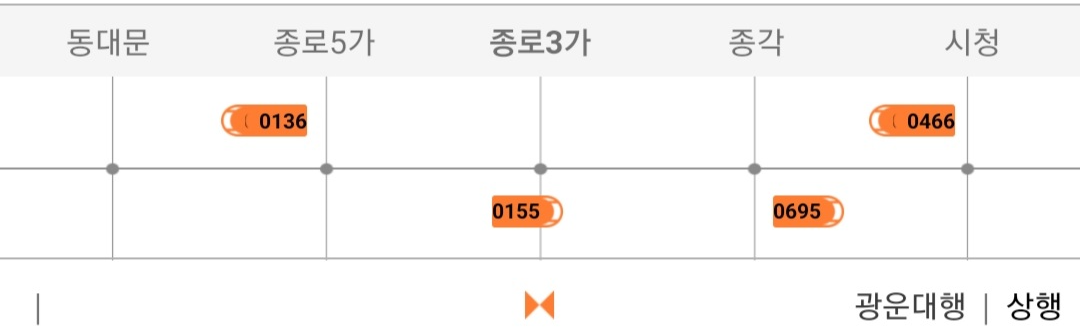
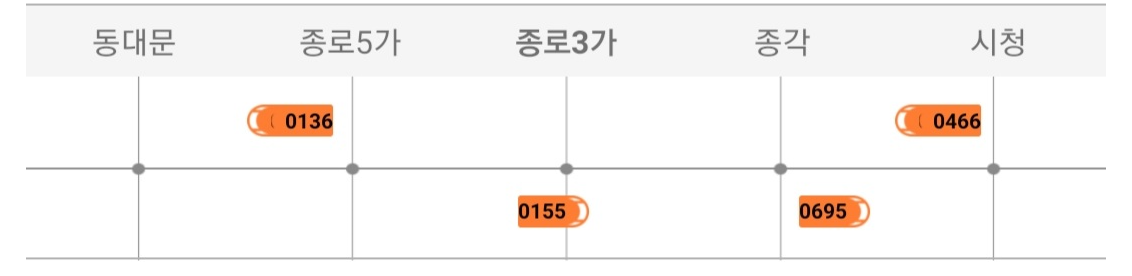
권준성

diff --git a/1호선 근접도.html b/1호선 근접도.html
@@ -138,11 +138,11 @@
             <center><h1 style="padding-top: 20px">현재 위치는 종로 3가역입니다</h1></center>
 
             <div style="text-align : center;">
-                <img id="sub_close" src="img/1호선 위.PNG" width="639" ; height="53"  alt="지하철 근접도" /><br />
-                <a href="1호선 근접도.html" target="_self"><img src=img/1호선1.PNG width="64" ; height="61" > </a>
-                <a href="3호선 근접도.html" target="_self"><img src=img/5호선3.PNG width="63" ; height="60" > </a>
-                <a href="5호선 근접도.html" target="_self"><img src=img/3호선5.PNG width="65" ; height="64" > </a><br />
-                <img id="sub_close" src="img/1호선 아래.PNG" width="654" ; height="200" alt="지하철 근접도" />
+                <img id="sub_close" src="img/1호선 위.png" width="680" ; height="80"  alt="지하철 근접도" /><br />
+                <a href="1호선 근접도.html" target="_self"><img src=img/1호선1.PNG width="63" ; height="60" > </a>
+                <a href="3호선 근접도.html" target="_self"><img src=img/5호선3.PNG width="62" ; height="59" > </a>
+                <a href="5호선 근접도.html" target="_self"><img src=img/3호선5.PNG width="64" ; height="63" > </a><br />
+                <img id="sub_close" src="img/1호선 아래.png" width="680" ; height="161" alt="지하철 근접도" />
             </div>
 
             <div id="footer"> COPYRIGHT (c) 2021 SUBSPACE </div>

diff --git a/3호선 근접도.html b/3호선 근접도.html
@@ -138,11 +138,11 @@
             <center><h1 style="padding-top: 20px">현재 위치는 종로 3가역입니다</h1></center>
 
             <div style="text-align : center;">
-                <img id="sub_close" src="img/3호선 위.PNG" width="639" ; height="53"  alt="지하철 근접도" /><br />
+                <img id="sub_close" src="img/3호선 위.png" width="680" ; height="80"  alt="지하철 근접도" /><br />
                 <a href="1호선 근접도.html" target="_self"><img src=img/3호선1.PNG width="65" ; height="62" > </a>
                 <a href="3호선 근접도.html" target="_self"><img src=img/3호선3.PNG width="63" ; height="60" > </a>
                 <a href="5호선 근접도.html" target="_self"><img src=img/3호선5.PNG width="65" ; height="62" > </a><br />
-                <img id="sub_close" src="img/3호선 아래.PNG" width="654" ; height="200" alt="지하철 근접도" />
+                <img id="sub_close" src="img/3호선 아래.png" width="680" ; height="161" alt="지하철 근접도" />
             </div>
 
             <div id="footer"> COPYRIGHT (c) 2021 SUBSPACE </div>

diff --git a/5호선 근접도.html b/5호선 근접도.html
@@ -138,11 +138,11 @@
             <center><h1 style="padding-top: 20px">현재 위치는 종로 3가역입니다</h1></center>
 
             <div style="text-align : center;">
-                <img id="sub_close" src="img/5호선 위.PNG" width="639" ; height="56"  alt="지하철 근접도" /><br />
+                <img id="sub_close" src="img/5호선 위.png" width="680" ; height="80"  alt="지하철 근접도" /><br />
                 <a href="1호선 근접도.html" target="_self"><img src=img/3호선1.PNG width="65" ; height="62" > </a>
                 <a href="3호선 근접도.html" target="_self"><img src=img/5호선3.PNG width="63" ; height="60" > </a>
                 <a href="5호선 근접도.html" target="_self"><img src=img/5호선5.PNG width="64" ; height="61" > </a><br />
-                <img id="sub_close" src="img/5호선 아래.PNG" width="654" ; height="200" alt="지하철 근접도" />
+                <img id="sub_close" src="img/5호선 아래.png" width="680" ; height="161" alt="지하철 근접도" />
             </div>
 
             <div id="footer"> COPYRIGHT (c) 2021 SUBSPACE </div>
